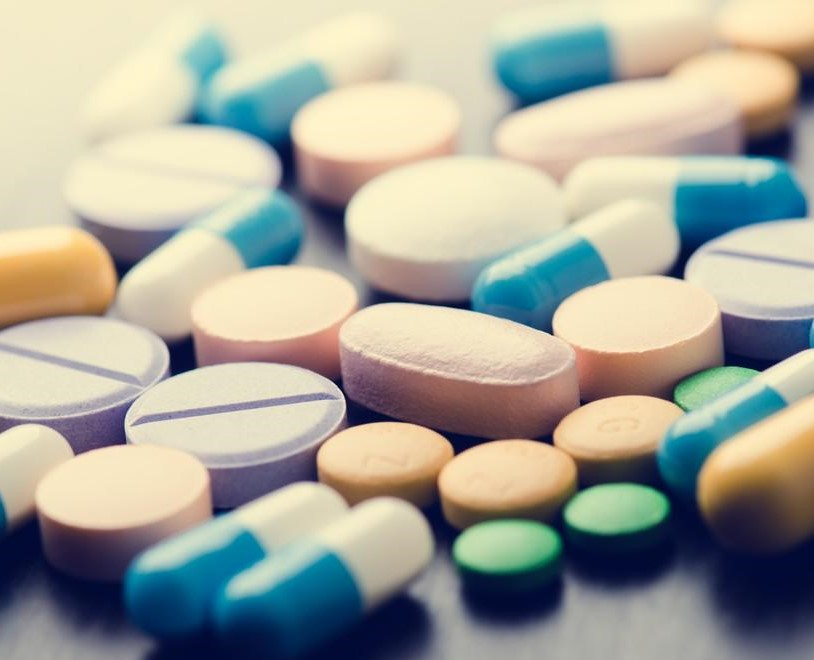
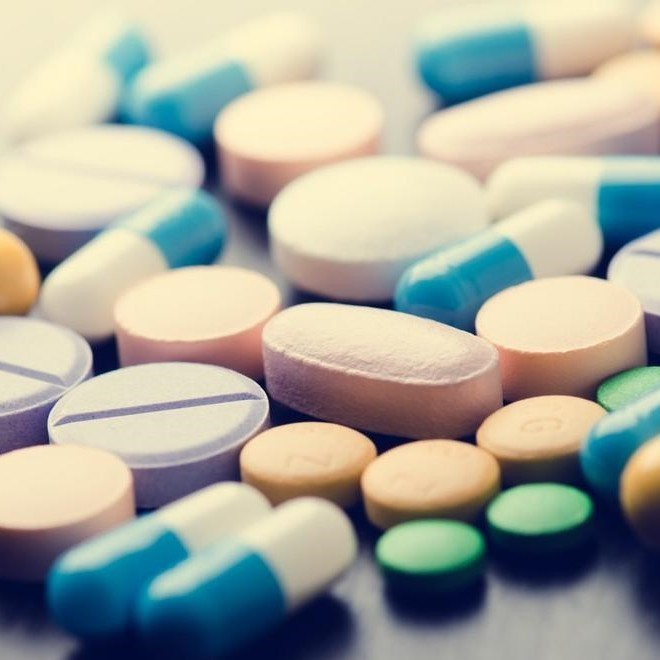
...

diff --git a/lib/screens/home/components/special_offers.dart b/lib/screens/home/components/special_offers.dart
@@ -26,7 +26,15 @@ class SpecialOffers extends StatelessWidget {
           child: Row(
             children: [
               SpecialOfferCard(
-                image: "assets/images/supplements.png",
+                image: "assets/images/tablets.jpg",
+                category: "General",
+                numOfBrands: 35,
+                press: () {
+                  Navigator.pushNamed(context, ProductListScreen.routeName);
+                },
+              ),
+              SpecialOfferCard(
+                image: "assets/images/supplements.jpeg",
                 category: "Supplements",
                 numOfBrands: 18,
                 press: () {
@@ -34,7 +42,7 @@ class SpecialOffers extends StatelessWidget {
                 },
               ),
               SpecialOfferCard(
-                image: "assets/images/ayurveda.png",
+                image: "assets/images/ayurveda.jpeg",
                 category: "Ayurveda",
                 numOfBrands: 9,
                 press: () {
